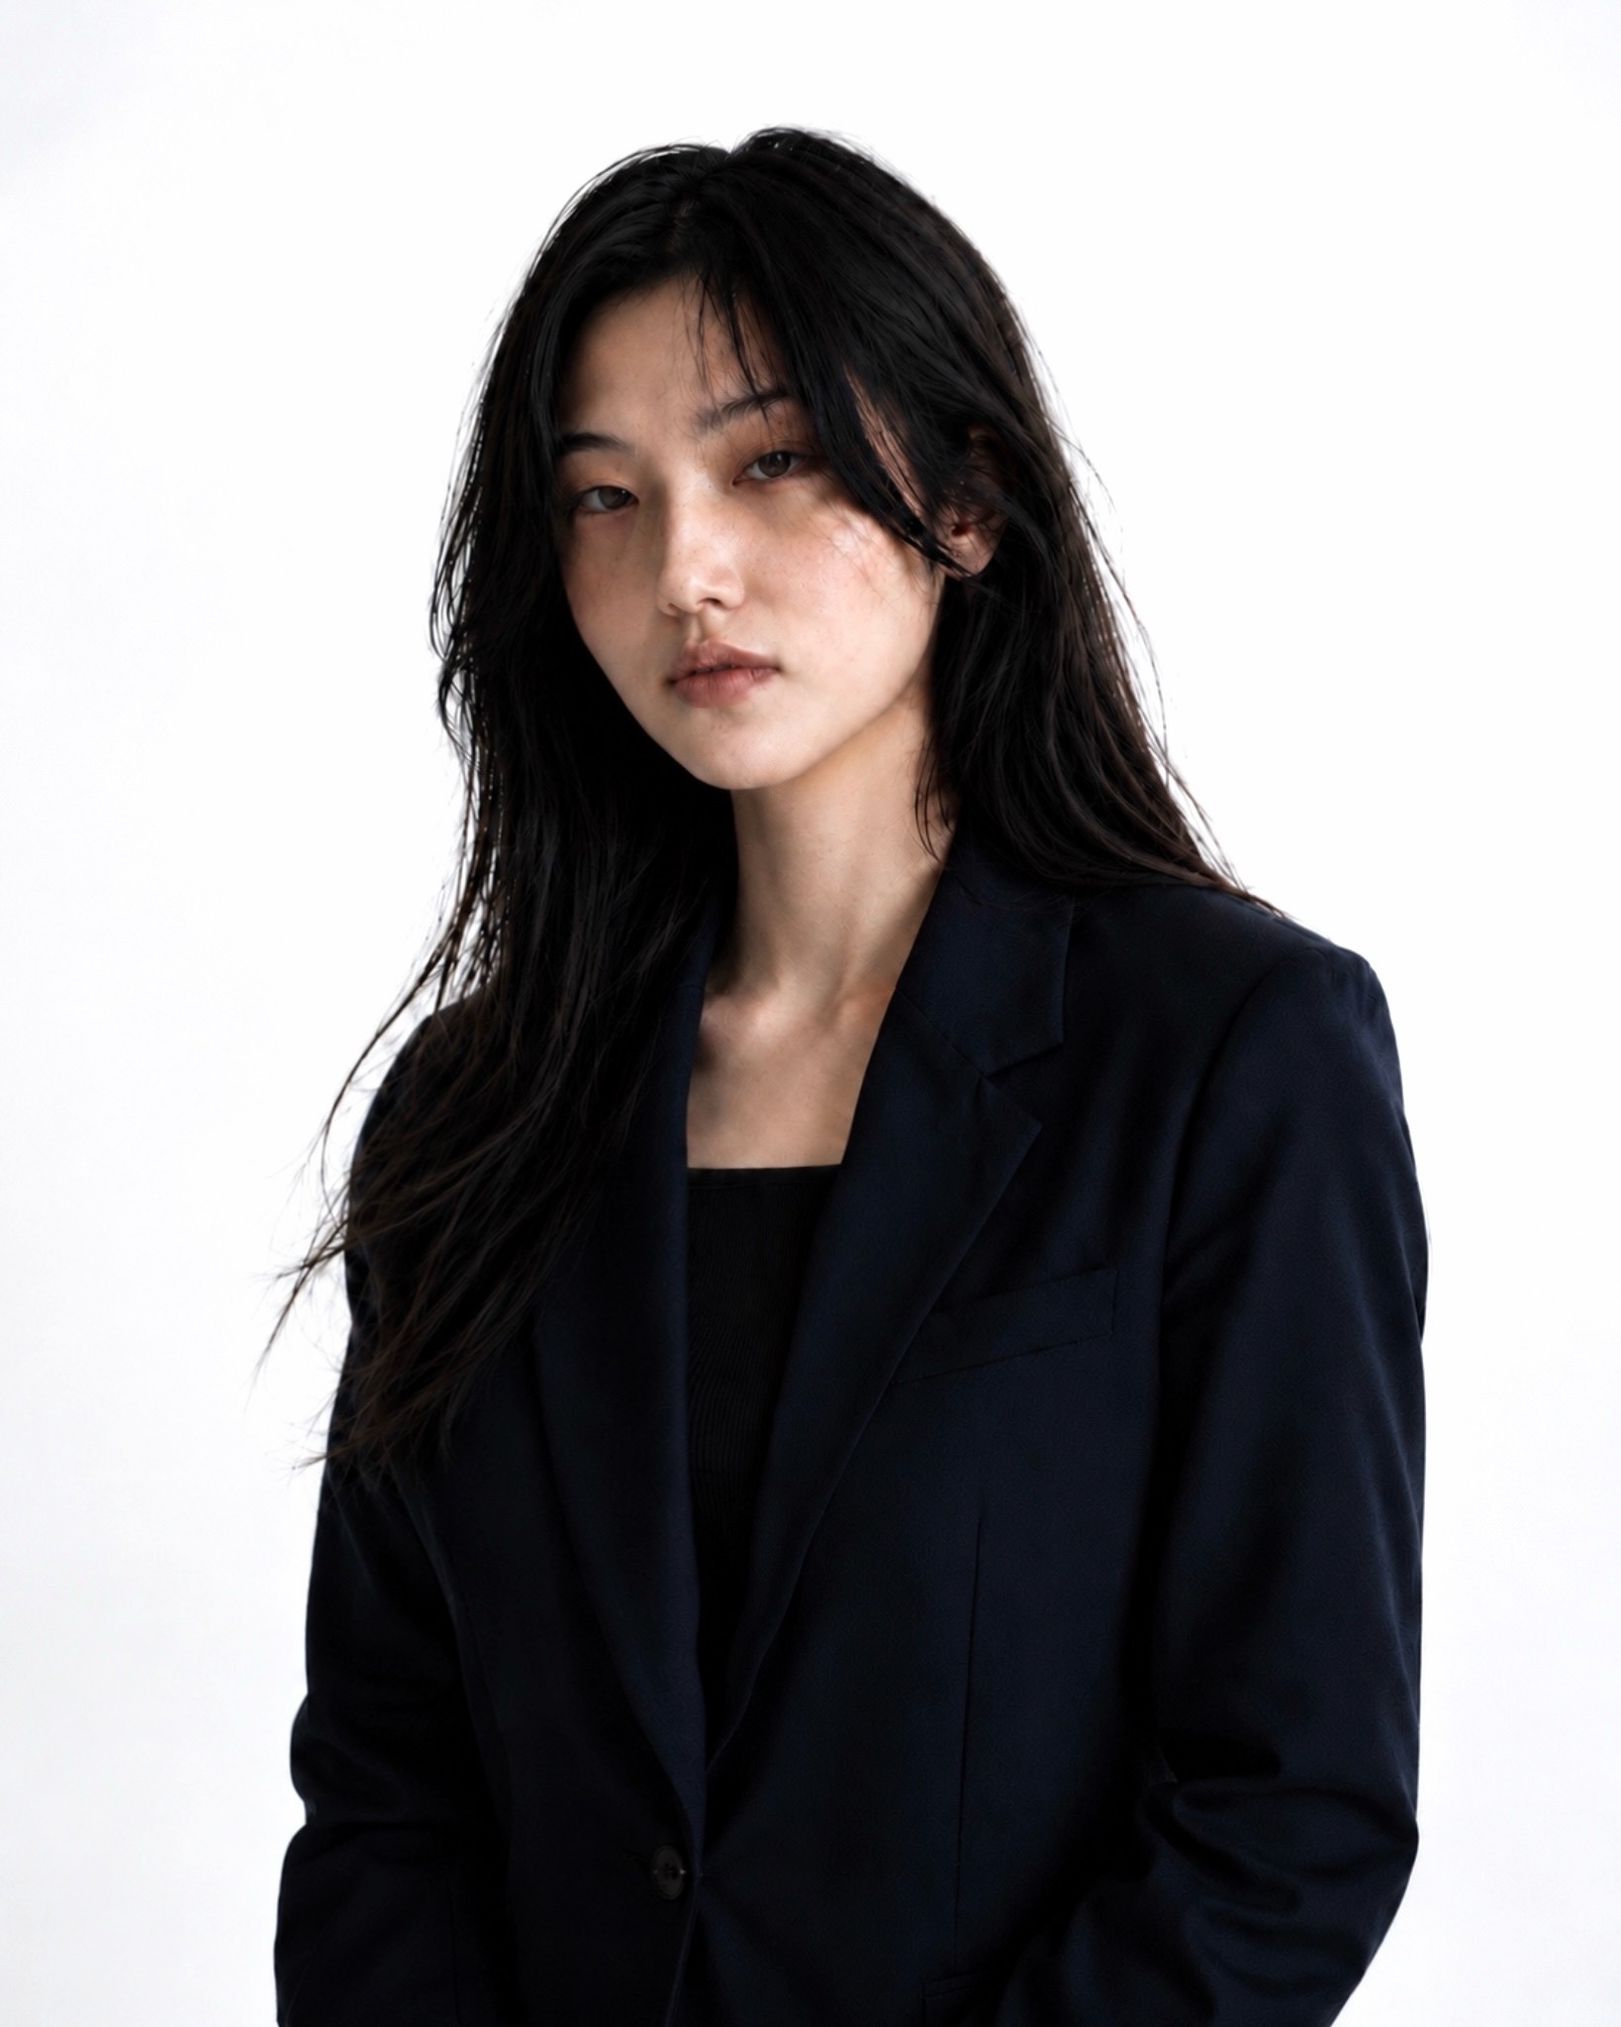
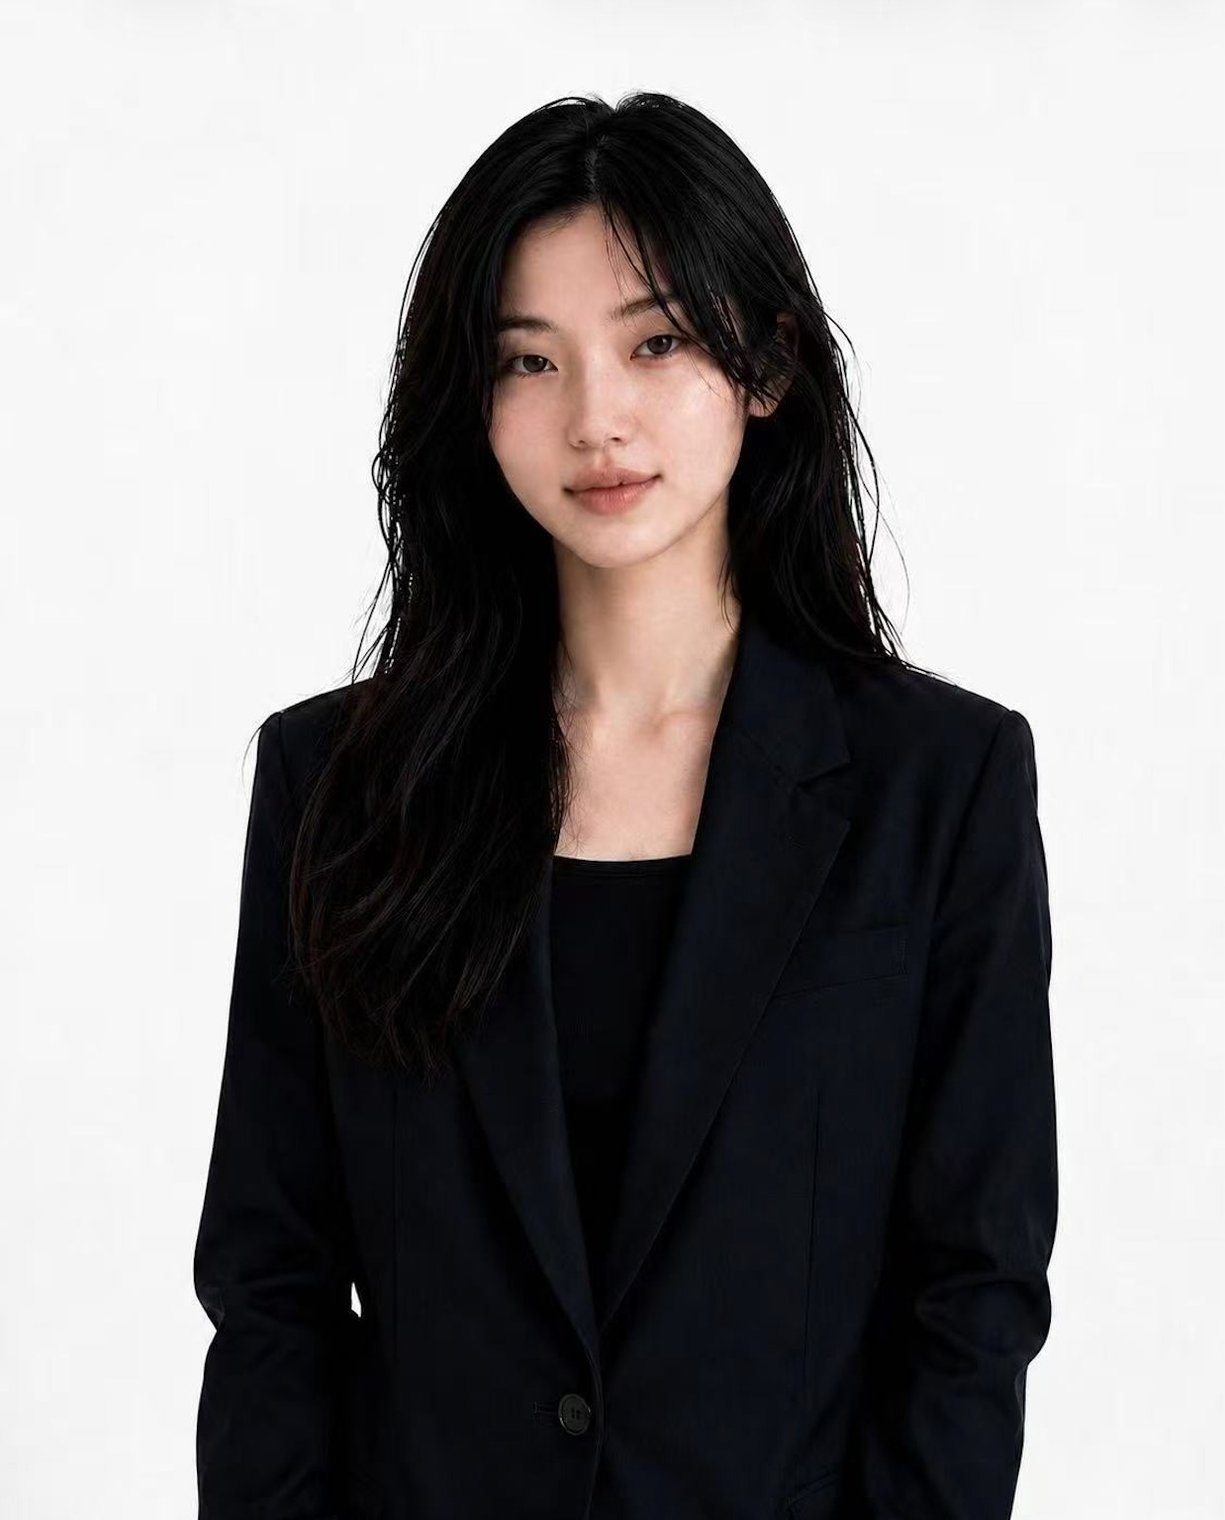
content: post-handoff text & image fixes (11 items)
- GPA threshold copy update (3.0 min, 3.5+ for top UC)
- TAG section: remove guaranteed-admission language
- 社圃 → 社團 typo fix
- 簡歷→履歷, 聯繫→聯絡 (UkAusNzPage)
- Nav: 申請落點分析 → 名校解析
- 計算機工程 → 資訊工程 (NTU majors + admissions list)
- 莊老師: 康奈爾/資訊科學 → 北京大學/法學碩士
- 黃老師: school → 倫敦大學; replace profile photo
- Professors: David Zax → Dr. Zax, Joe Moore → Dr. Moore
- admissions.js: 伯克利分校→柏克萊大學, 聖地亞哥→聖地牙哥
- StudyTour CTA: 名校校園 → 適合頂尖學府

diff --git a/src/data/admissions.js b/src/data/admissions.js
@@ -1,15 +1,15 @@
 /* 歷屆錄取榜單（不完全統計）— 來源 PPT slide 23 */
 export const HISTORICAL_ADMISSIONS = [
-  { name: 'W 同學', from: '聖莫尼卡學院', to: '加州大學伯克利分校', major: '政治學', gpa: '3.78' },
-  { name: 'L 同學', from: '聖莫尼卡學院', to: '加州大學伯克利分校', major: '哲學', gpa: '3.5' },
+  { name: 'W 同學', from: '聖莫尼卡學院', to: '柏克萊大學', major: '政治學', gpa: '3.78' },
+  { name: 'L 同學', from: '聖莫尼卡學院', to: '柏克萊大學', major: '哲學', gpa: '3.5' },
   { name: 'Z 同學', from: '聖莫尼卡學院', to: '南加州大學', major: '建築學', gpa: '3.9' },
   { name: 'L 同學', from: '聖莫尼卡學院', to: '密歇根大學安娜堡分校', major: '傳媒學', gpa: '3.8' },
-  { name: 'S 同學', from: '山麓學院', to: '加州大學伯克利分校', major: '政治經濟學', gpa: '3.7' },
+  { name: 'S 同學', from: '山麓學院', to: '柏克萊大學', major: '政治經濟學', gpa: '3.7' },
   { name: 'Z 同學', from: '山麓學院', to: '伊利諾伊大學香檳分校', major: '傳媒學', gpa: '3.9' },
   { name: 'Y 同學', from: '山麓學院', to: '威斯康星大學麥迪遜分校', major: '物理學', gpa: '3.7' },
   { name: 'W 同學', from: '迪安薩學院', to: '北卡羅來納大學教堂山', major: '工商管理', gpa: '3.7' },
-  { name: 'H 同學', from: '迪安薩學院', to: '加州大學伯克利分校', major: '生物工程學', gpa: '3.8' },
-  { name: 'D 同學', from: '聖地亞哥峽谷學院', to: '波士頓大學', major: '傳媒學', gpa: '3.9' },
+  { name: 'H 同學', from: '迪安薩學院', to: '柏克萊大學', major: '生物工程學', gpa: '3.8' },
+  { name: 'D 同學', from: '聖地牙哥峽谷學院', to: '波士頓大學', major: '傳媒學', gpa: '3.9' },
   { name: 'G 同學', from: '迪安薩學院', to: '威斯康星大學麥迪遜分校', major: '工商管理', gpa: '3.8' },
   { name: 'L 同學', from: '戴亞布洛谷學院', to: '普渡大學', major: '教育學', gpa: '3.4' },
   { name: 'R 同學', from: '戴亞布洛谷學院', to: '密歇根大學', major: '商科', gpa: '4.0' },
@@ -17,7 +17,7 @@ export const HISTORICAL_ADMISSIONS = [
   { name: 'T 同學', from: '山麓學院', to: '紐約大學', major: '市場學', gpa: '3.6' },
   { name: 'Q 同學', from: '戴亞布洛谷學院', to: '哥倫比亞大學', major: '信息管理學', gpa: '4.0' },
   { name: 'W 同學', from: '迪安薩學院', to: '康奈爾大學', major: '傳播學', gpa: '4.0' },
-  { name: 'M 同學', from: '聖地亞哥峽谷學院', to: '加州大學洛杉磯分校', major: '媒體設計藝術', gpa: '3.8' },
+  { name: 'M 同學', from: '聖地牙哥峽谷學院', to: '加州大學洛杉磯分校', major: '媒體設計藝術', gpa: '3.8' },
   { name: 'L 同學', from: '聖巴巴拉城市學院', to: '佛羅里達大學', major: '傳媒學', gpa: '3.9' },
   { name: 'L 同學', from: '休斯頓社區學院', to: '加州大學洛杉磯分校', major: '心理學', gpa: '3.8' },
   { name: 'Q 同學', from: '邁阿密戴德學院', to: '佛羅里達州立大學', major: '教育心理學', gpa: '3.4' },
@@ -28,17 +28,17 @@ export const HISTORICAL_ADMISSIONS = [
   { name: 'N 同學', from: '米拉科斯塔學院', to: '波士頓大學', major: '會計學', gpa: '3.6' },
   { name: 'S 同學', from: '聖莫尼卡社區學院', to: '加州大學洛杉磯分校', major: '計算機科學', gpa: '3.9' },
   { name: 'Y 同學', from: '雪蘭社區學院', to: '伊利諾伊大學香檳分校', major: '傳播學', gpa: '3.9' },
-  { name: 'T 同學', from: '戴亞布洛谷社區學院', to: '加州大學伯克利分校', major: '心理學', gpa: '3.9' },
-  { name: 'H 同學', from: '山麓學院', to: '加州大學聖地亞哥分校', major: '機械工程', gpa: '3.7' },
+  { name: 'T 同學', from: '戴亞布洛谷社區學院', to: '柏克萊大學', major: '心理學', gpa: '3.9' },
+  { name: 'H 同學', from: '山麓學院', to: '加州大學聖地牙哥分校', major: '機械工程', gpa: '3.7' },
   { name: 'R 同學', from: '皮爾斯學院', to: '華盛頓大學西雅圖分校', major: '經濟學', gpa: '3.8' },
   { name: 'N 同學', from: '迪安薩學院', to: '加州大學戴維斯分校', major: '化學工程', gpa: '3.8' },
   { name: 'L 同學', from: '綠河學院', to: '華盛頓大學西雅圖分校', major: '計算機科學', gpa: '3.8' },
   { name: 'L 同學', from: '邦克山學院', to: '波士頓大學', major: '工商管理', gpa: '3.7' },
   { name: 'Q 同學', from: '雪蘭社區學院', to: '紐約大學', major: '廣告設計', gpa: '3.8' },
-  { name: 'L 同學', from: '聖地亞哥峽谷學院', to: '加州大學聖塔芭芭拉分校', major: '人文科學', gpa: '3.8' },
+  { name: 'L 同學', from: '聖地牙哥峽谷學院', to: '加州大學聖塔芭芭拉分校', major: '人文科學', gpa: '3.8' },
   { name: 'H 同學', from: '格蘭岱爾學院', to: '亞利桑那州立大學', major: '會計學', gpa: '3.8' },
   { name: 'C 同學', from: '奧隆迪學院', to: '威斯康星大學麥迪遜分校', major: '環境科學', gpa: '3.8' },
-  { name: 'Z 同學', from: '帕薩迪納城市學院', to: '加州大學伯克利分校', major: '生物學', gpa: '3.9' },
+  { name: 'Z 同學', from: '帕薩迪納城市學院', to: '柏克萊大學', major: '生物學', gpa: '3.9' },
   { name: 'L 同學', from: '紐約城市學院', to: '紐約州立大學石溪分校', major: '市場營銷', gpa: '3.7' },
   { name: 'H 同學', from: '奧林匹克學院', to: '華盛頓大學西雅圖分校', major: '物流管理', gpa: '3.8' },
   { name: 'T 同學', from: '聖莫尼卡學院', to: '加州大學洛杉磯分校', major: '數學', gpa: '3.8' },
@@ -53,11 +53,11 @@ export const HISTORICAL_ADMISSIONS = [
   { name: 'Y 同學', from: '聖莫尼卡學院', to: '加州大學戴維斯分校', major: '數學', gpa: '3.9' },
   { name: 'W 同學', from: '埃德蒙社區學院', to: '普渡大學', major: '金融學', gpa: '3.9' },
   { name: 'Y 同學', from: '德安扎學院', to: '加州大學聖塔芭芭拉分校', major: '電氣工程', gpa: '3.8' },
-  { name: 'Y 同學', from: '山麓學院', to: '加州大學伯克利分校', major: '統計學', gpa: '3.9' },
-  { name: 'Y 同學', from: '聖莫尼卡學院', to: '加州大學歐文分校', major: '計算機工程', gpa: '3.7' },
+  { name: 'Y 同學', from: '山麓學院', to: '柏克萊大學', major: '統計學', gpa: '3.9' },
+  { name: 'Y 同學', from: '聖莫尼卡學院', to: '加州大學歐文分校', major: '資訊工程', gpa: '3.7' },
   { name: 'C 同學', from: '貝爾維尤學院', to: '華盛頓大學', major: '計算機科學', gpa: '3.8' },
-  { name: 'C 同學', from: '橘郡學院', to: '加州大學伯克利分校', major: '經濟學', gpa: '3.8' },
-  { name: 'H 同學', from: '聖羅莎學院', to: '加州大學聖地亞哥分校', major: '生物工程學', gpa: '3.7' },
+  { name: 'C 同學', from: '橘郡學院', to: '柏克萊大學', major: '經濟學', gpa: '3.8' },
+  { name: 'H 同學', from: '聖羅莎學院', to: '加州大學聖地牙哥分校', major: '生物工程學', gpa: '3.7' },
   { name: 'L 同學', from: '阿勒格尼縣社區學院', to: '匹茲堡大學', major: '會計學', gpa: '3.7' },
   { name: 'S 同學', from: '爾灣社區學院', to: '波士頓大學', major: '經濟學', gpa: '3.8' },
   { name: 'G 同學', from: '戴亞布洛谷學院', to: '弗吉尼亞大學', major: '心理學', gpa: '3.7' },

diff --git a/src/pages/programs/UkAusNzPage.jsx b/src/pages/programs/UkAusNzPage.jsx
@@ -38,9 +38,9 @@ const COUNTRIES = [
       { icon: '🚄', title: '旅遊便利', desc: '毗鄰歐洲大陸，假期可暢遊北歐、東歐、中歐不同城市。' },
     ],
     timeline: [
-      { period: '3–5 月', items: ['準備雅思、簡歷', '部分專業準備 GRE / GMAT', '提升學業成績 GPA'] },
-      { period: '6–7 月', items: ['雅思一刷', '暑期實習', '聯繫教授／實習推薦人'] },
-      { period: '8 月', items: ['完善簡歷、撰寫文書', '雅思二刷、確定推薦人名單', '初步確定目標學校'] },
+      { period: '3–5 月', items: ['準備雅思、履歷', '部分專業準備 GRE / GMAT', '提升學業成績 GPA'] },
+      { period: '6–7 月', items: ['雅思一刷', '暑期實習', '聯絡教授／實習推薦人'] },
+      { period: '8 月', items: ['完善履歷、撰寫文書', '雅思二刷、確定推薦人名單', '初步確定目標學校'] },
       { period: '9 月', items: ['完善文書撰寫', '準備其他申請資料', '申請季開始：網申開始'] },
       { period: '10 月', items: ['文書定稿', '寄送材料並提交申請', '確認推薦信全部提交'] },
       { period: '11–12 月', items: ['熱門院校開始發放 OFFER', '部分熱門專業申請截止'] },
@@ -90,9 +90,9 @@ const COUNTRIES = [
       { icon: '🔬', title: '現代化教育設施', desc: '實驗室、圖書館、多媒體教室齊全，研究資源豐富。' },
     ],
     timeline: [
-      { period: '3–5 月', items: ['參加雅思', '部分專業準備 GRE / GMAT', '提升 GPA、準備簡歷'] },
-      { period: '6–7 月', items: ['Summer 實習', '聯繫教授／實習推薦人'] },
-      { period: '8 月', items: ['完善簡歷、撰寫文書', '確定推薦人名單', '網申開放、確認推薦信提交'] },
+      { period: '3–5 月', items: ['參加雅思', '部分專業準備 GRE / GMAT', '提升 GPA、準備履歷'] },
+      { period: '6–7 月', items: ['Summer 實習', '聯絡教授／實習推薦人'] },
+      { period: '8 月', items: ['完善履歷、撰寫文書', '確定推薦人名單', '網申開放、確認推薦信提交'] },
       { period: '9–11 月', items: ['語言成績衝刺', '跟進申請狀態', '多數學校開始發放 Offer'] },
       { period: '12 月', items: ['遞交澳洲簽證申請與材料'] },
       { period: '次年 1–2 月', items: ['拿到簽證', '準備入學研究生課程'] },
@@ -135,7 +135,7 @@ const COUNTRIES = [
     ],
     universities: [
       { name: '新加坡國立大學 NUS', en: 'National University of Singapore', qs: 8, majors: '工商管理・資訊與新媒體・計算生物學・機械電子學・藝術設計' },
-      { name: '南洋理工大學 NTU', en: 'Nanyang Technological University', qs: 26, majors: '宇航工程・生物工程・化學與分子生物工程・土木工程・環境工程・計算機工程' },
+      { name: '南洋理工大學 NTU', en: 'Nanyang Technological University', qs: 26, majors: '宇航工程・生物工程・化學與分子生物工程・土木工程・環境工程・資訊工程' },
     ],
     pathways: [
       { tag: '01', title: '學位要求', target: '學士學位或同等資格', requirement: 'GPA 3.0 以上' },
@@ -149,9 +149,9 @@ const COUNTRIES = [
       { icon: '⭐', title: '亞洲頂尖排名', desc: 'NUS 全球第 8、NTU 全球第 26，亞洲常年排名第一第二。' },
     ],
     timeline: [
-      { period: '3–5 月', items: ['準備雅思', '部分專業準備 GRE / GMAT', '提升 GPA、準備簡歷'] },
-      { period: '6–7 月', items: ['雅思一刷', 'Summer 實習', '聯繫教授／實習推薦人'] },
-      { period: '8 月', items: ['完善簡歷、撰寫文書', '雅思二刷', '初步確定目標學校'] },
+      { period: '3–5 月', items: ['準備雅思', '部分專業準備 GRE / GMAT', '提升 GPA、準備履歷'] },
+      { period: '6–7 月', items: ['雅思一刷', 'Summer 實習', '聯絡教授／實習推薦人'] },
+      { period: '8 月', items: ['完善履歷、撰寫文書', '雅思二刷', '初步確定目標學校'] },
       { period: '9–10 月', items: ['網申開放、填寫申請', '確認推薦信提交'] },
       { period: '11–12 月', items: ['語言成績衝刺、跟進狀態', '部分科系需要面試'] },
       { period: '次年 1–4 月', items: ['多數學校開始發放 Offer', '確定入讀學校、繳留位費'] },

diff --git a/src/pages/programs/CommunityCollegePage.jsx b/src/pages/programs/CommunityCollegePage.jsx
@@ -9,7 +9,7 @@ import CTABanner from '../../components/shared/CTABanner'
 const TRANSFER_REQS = [
   { num: '60', unit: '可轉學分', desc: '完成 60 學分可轉移課程，直接銜接目標院校大三' },
   { num: 'IGETC', unit: '通識框架', desc: '完成 IGETC 通識課程框架，滿足 UC/CSU 系統轉學要求' },
-  { num: '3.5+', unit: 'GPA 門檻', desc: '達到目標院校所需 GPA，搭配顧問規劃確保穩定維持' },
+  { num: '3.5+', unit: 'GPA 門檻', desc: 'GPA 門檻依目標學校而異，最低約 3.0，若申請頂尖 UC 建議達 3.5 以上' },
 ]
 
 const MYTHS = [
@@ -125,7 +125,7 @@ export default function CommunityCollegePage() {
                     },
                     {
                       label: '校園氛圍',
-                      uni: '大型校園、豐富的研究與社圃資源。',
+                      uni: '大型校園、豐富的研究與社團資源。',
                       cc: <span className="text-dfa-blue font-medium">小班教學、師生比低，顧問關注度高。</span>,
                     },
                   ].map((row, i) => (

diff --git a/src/data/team.js b/src/data/team.js
@@ -43,8 +43,8 @@ export const teamMembers = [
   },
   {
     name: '莊老師',
-    school: '康奈爾大學',
-    degree: '資訊科學碩士',
+    school: '北京大學',
+    degree: '法學碩士',
     photo: '/images/team/莊老師.jpg',
     bio: '曾在英美菸草（台灣）法務與外事部門任職，與加州校方長期密切合作，深刻理解轉學路徑中的每一個關鍵環節。現為 DFA 升學顧問，同時在雅思與托福學生的教育有傑出的表現，帶領學生申請藤校有豐富的經驗。',
   },
@@ -64,7 +64,7 @@ export const teamMembers = [
   },
   {
     name: '黃老師',
-    school: '倫敦大學巴特萊特學院',
+    school: '倫敦大學',
     degree: '設計思維',
     photo: '/images/team/黃老師.jpg',
     bio: '具備國際級設計與跨領域整合經驗，並擁有世界 500 強體系背景。現為 DFA 升學顧問，專注於美國頂尖大學申請與 UC 系統轉學規劃，擅長將設計思維轉化為申請策略，協助學生建立清晰且具競爭力的升學路徑。',

diff --git a/src/pages/TeamPage.jsx b/src/pages/TeamPage.jsx
@@ -40,7 +40,7 @@ const RESEARCH_PROGRAMS = [
         title: '化學與材料科學研究',
         subtitle: '多維 NMR 光譜技術在有機化學中的應用',
         areas: '化學・有機化學・分析化學・材料科學・生物化學',
-        professor: 'David Zax',
+        professor: 'Dr. Zax',
         professorTitle: '布朗大學終身教授',
         credentials: [
           '任教於布朗大學化學與生物分子工程領域',
@@ -52,7 +52,7 @@ const RESEARCH_PROGRAMS = [
         title: '環境工程研究',
         subtitle: '環境保護中的化學原理與應用',
         areas: '環境工程・化學・水處理・環境科學',
-        professor: 'Joe Moore',
+        professor: 'Dr. Moore',
         professorTitle: '卡內基梅隆大學教授',
         credentials: [
           '卡內基梅隆大學材料與環境相關領域教授',

diff --git a/src/pages/TuitionPage.jsx b/src/pages/TuitionPage.jsx
@@ -268,7 +268,7 @@ export default function TuitionPage() {
             <SectionHeading title="TAG 轉學優勢" />
             <div className="max-w-3xl mx-auto text-center">
               <p className="text-gray-600 leading-relaxed">
-                透過 CC（如 Santa Monica College、Diablo Valley College）可申請 TAG（Transfer Admission Guarantee），以較低門檻進入 UC 系統名校。TAG 提供保證錄取，大幅降低申請不確定性。
+                透過 CC（如 Santa Monica College、Diablo Valley College）可申請 TAG（Transfer Admission Guarantee），以較低門檻進入 UC 系統名校，有效提升錄取穩定性。
               </p>
             </div>
           </ScrollReveal>

diff --git a/src/pages/StudyTourPage.jsx b/src/pages/StudyTourPage.jsx
@@ -164,12 +164,12 @@ export default function StudyTourPage() {
                 在申請之前，
               </p>
               <p className="text-2xl sm:text-3xl font-bold text-white leading-snug mb-6">
-                先確認你是否{' '}
+                先確認你是否適合{' '}
                 <span
                   className="relative inline-block text-[#4FC8E8]"
                   style={{ textDecoration: 'underline', textDecorationColor: '#4FC8E8', textUnderlineOffset: '6px' }}
                 >
-                  名校校園
+                  頂尖學府
                 </span>
               </p>
 

diff --git a/src/data/navigation.js b/src/data/navigation.js
@@ -10,7 +10,7 @@ export const navItems = [
     ],
   },
   {
-    label: '申請落點分析',
+    label: '名校解析',
     path: '/apply-analysis',
     children: [
       { label: 'QS Top 50', path: '/apply-analysis/qs-top50' },
